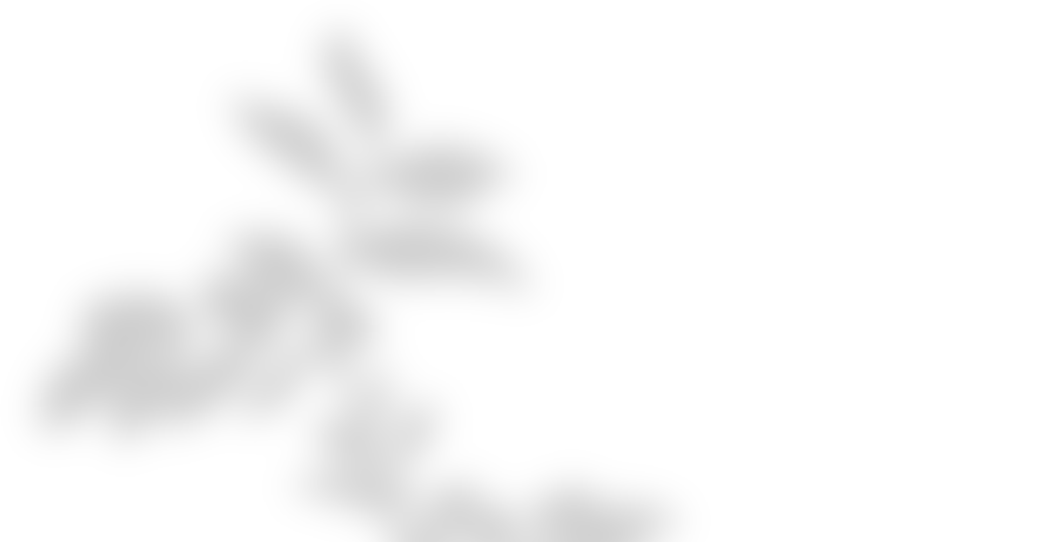
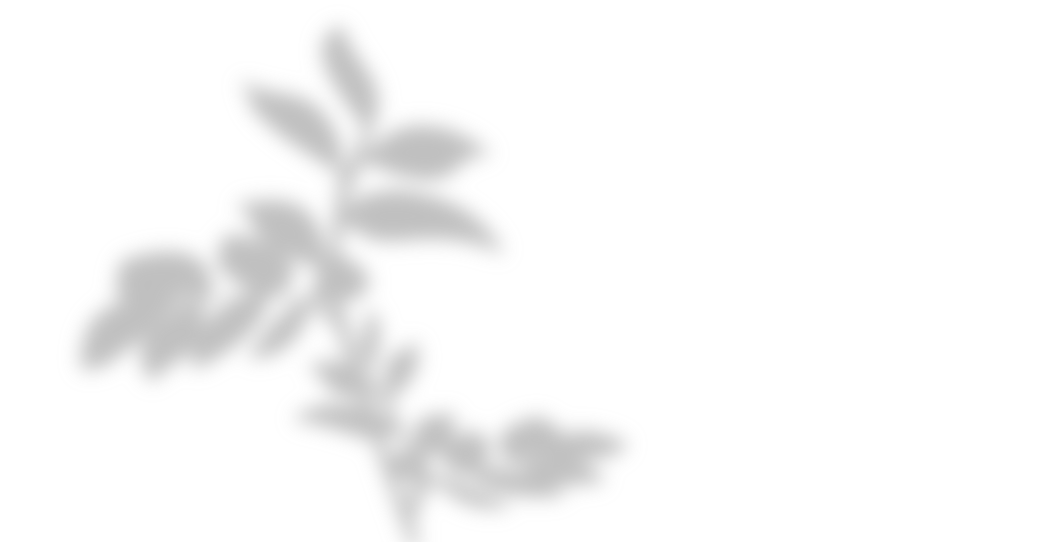
aboutの背景画像修正,headerのcss修正

diff --git a/css/style.css b/css/style.css
@@ -487,7 +487,6 @@ a {
   filter: drop-shadow(1px 1px 1px #666);
   justify-content: space-between;
   margin: 132px auto 132px 0px;
-  mix-blend-mode: darken;
   padding: 108px 160px 78px;
   width: 80%;
 }
@@ -556,23 +555,9 @@ a {
   background-repeat: no-repeat;
   background-size: cover;
   height: 100vh;
+  min-height: 960px;
   position: relative;
   width: 100vw;
-}
-.p-header .p-nav_container {
-  display: flex;
-  justify-content: flex-end;
-  position: fixed;
-  right: 130px;
-  top: -10px;
-}
-.p-header .p-nav_container .p-nav {
-  background-color: rgba(0, 51, 102, 0.4);
-  border-radius: 10px;
-  color: #fff;
-  display: block;
-  height: 115px;
-  width: 130px;
 }
 .p-header .p-hd_wrapper {
   align-items: center;
@@ -602,6 +587,7 @@ a {
   background-color: #003366;
   height: 100%;
   left: 166px;
+  min-height: 960px;
   mix-blend-mode: overlay;
   padding: 21px;
   position: absolute;
@@ -642,6 +628,23 @@ a {
   opacity: 0.5;
 }
 
+.p-nav_container {
+  display: flex;
+  justify-content: flex-end;
+  position: fixed;
+  right: 130px;
+  top: -10px;
+  z-index: 100;
+}
+.p-nav_container .p-nav {
+  background-color: rgba(0, 51, 102, 0.4);
+  border-radius: 10px;
+  color: #fff;
+  display: block;
+  height: 115px;
+  width: 130px;
+}
+
 .p-results {
   display: block;
   margin-bottom: 150px;
@@ -658,6 +661,7 @@ a {
   background-color: #72a0c1;
   margin-bottom: 300px;
   padding: 72px 160px;
+  z-index: -1;
 }
 .p-skills .p-sk_wrapper {
   display: flex;

diff --git a/css/object/project/_header.scss b/css/object/project/_header.scss
@@ -6,22 +6,9 @@
     background-size: cover;
     width: 100vw;
     height: 100vh;
+    min-height: 960px;
     position: relative;
-    .p-nav_container {
-        top: -10px;
-        right: 130px;
-        position: fixed;
-        display: flex;
-        justify-content: flex-end;
-        .p-nav {
-            display: block;
-            width: 130px;
-            height: 115px;
-            border-radius: 10px;
-            background-color: rgba($color: #003366, $alpha: 0.4);
-            color: #fff;
-        }
-    }
+    
     .p-hd_wrapper {
         display: flex;
         height: 100%;
@@ -54,6 +41,7 @@
         top: 0px;
         left: 166px;
         height: 100%;
+        min-height: 960px;
         padding: 21px;
         h2 {
             color: #fff;

diff --git a/css/object/project/_nav.scss b/css/object/project/_nav.scss
@@ -1,0 +1,17 @@
+@charset "UTF-8";
+.p-nav_container {
+    top: -10px;
+    right: 130px;
+    position: fixed;
+    display: flex;
+    justify-content: flex-end;
+    z-index: 100;
+    .p-nav {
+        display: block;
+        width: 130px;
+        height: 115px;
+        border-radius: 10px;
+        background-color: rgba($color: #003366, $alpha: 0.4);
+        color: #fff;
+    }
+}

diff --git a/index.html b/index.html
@@ -189,7 +189,7 @@
             </div>
         </section>
         <section class="l-contact p-contact">
-            <h3 class="c-sec_title">お問い合わせ</h3>
+            <h3 class="c-sec_title"><span class="center">Contact</span>お問い合わせ</h3>
             <form></form>
         </section>
         <footer class="l-footer p-footer">

diff --git a/css/object/project/_about.scss b/css/object/project/_about.scss
@@ -5,7 +5,6 @@
     background-color: rgba(250, 250, 250, 0.45);
     background-image: url(/img/about-bg.png);
     background-position: left bottom;
-    mix-blend-mode: darken;
     margin: 132px auto 132px 0px;
     padding: 108px 160px 78px;
     display: flex;

diff --git a/css/object/project/_skills.scss b/css/object/project/_skills.scss
@@ -3,6 +3,7 @@
     background-color: $secondary;
     padding: 72px 160px ;
     margin-bottom: 300px;
+    z-index: -1;
     .p-sk_wrapper {
         display: flex;
         flex-wrap: wrap;
